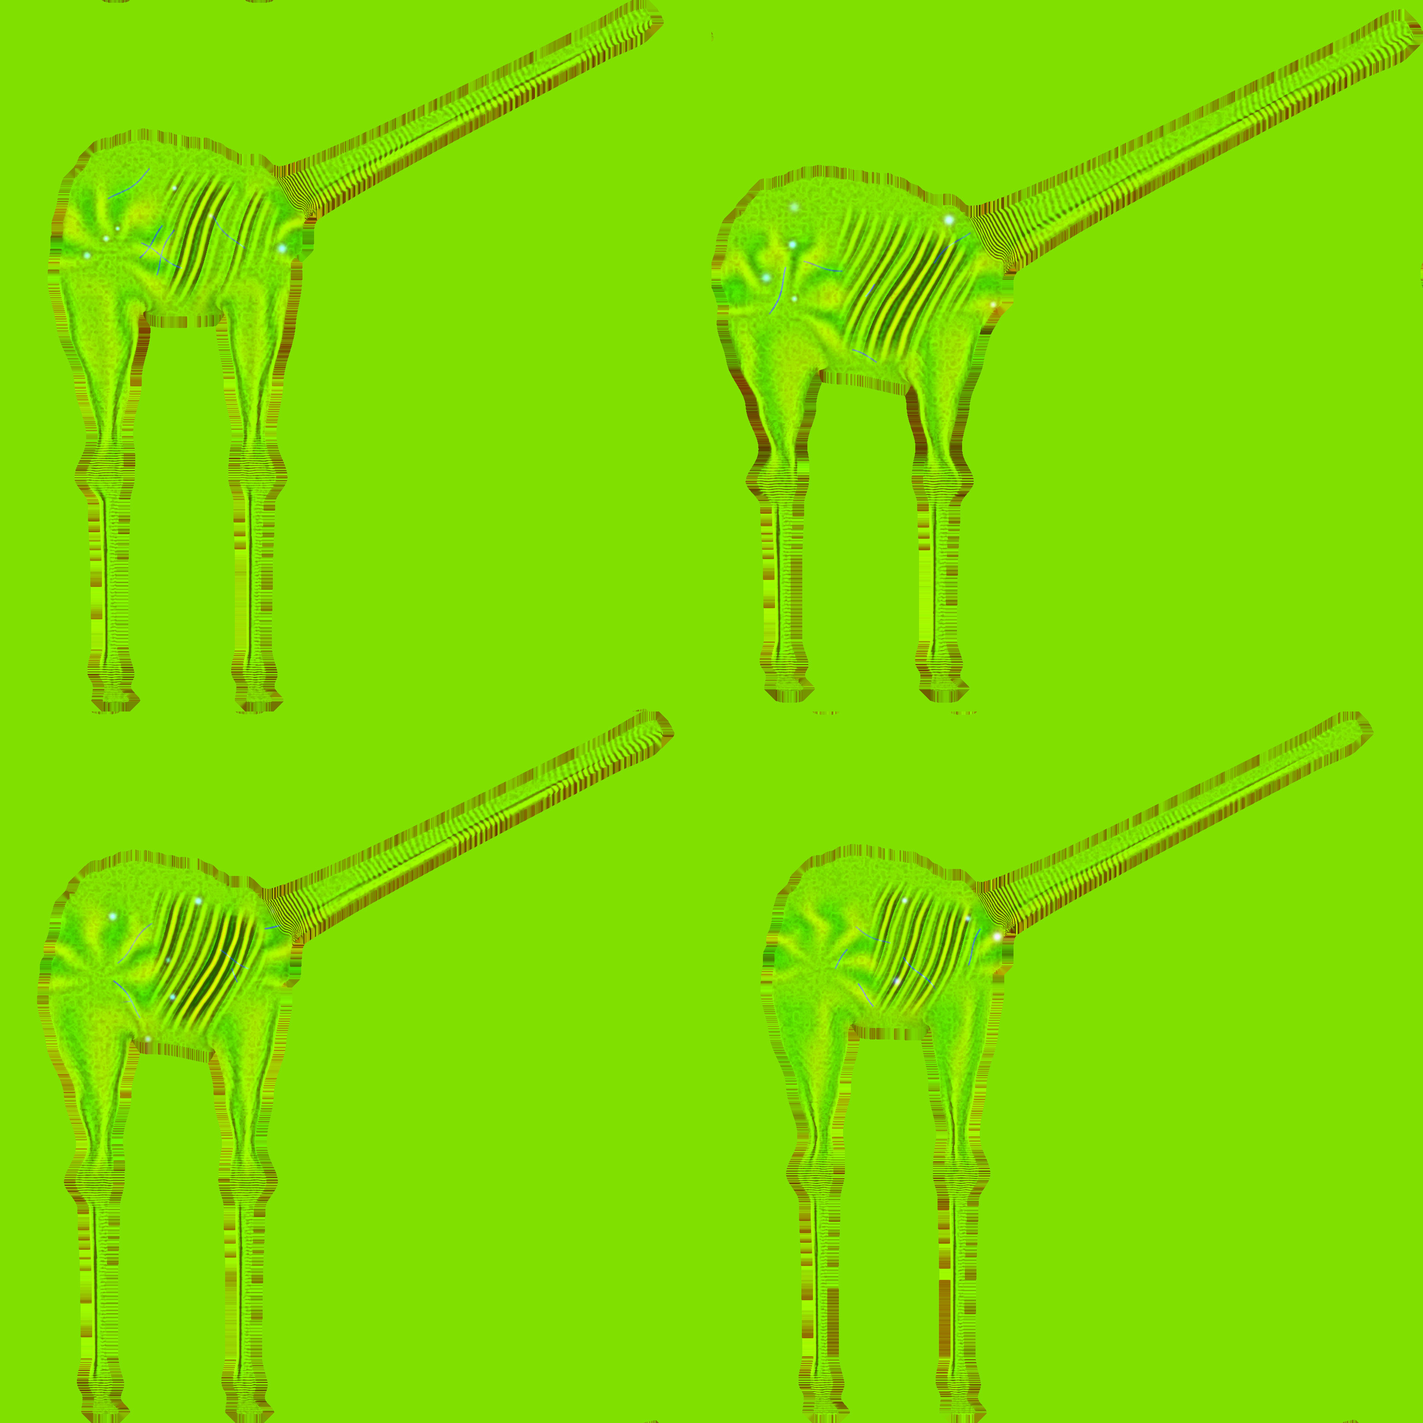
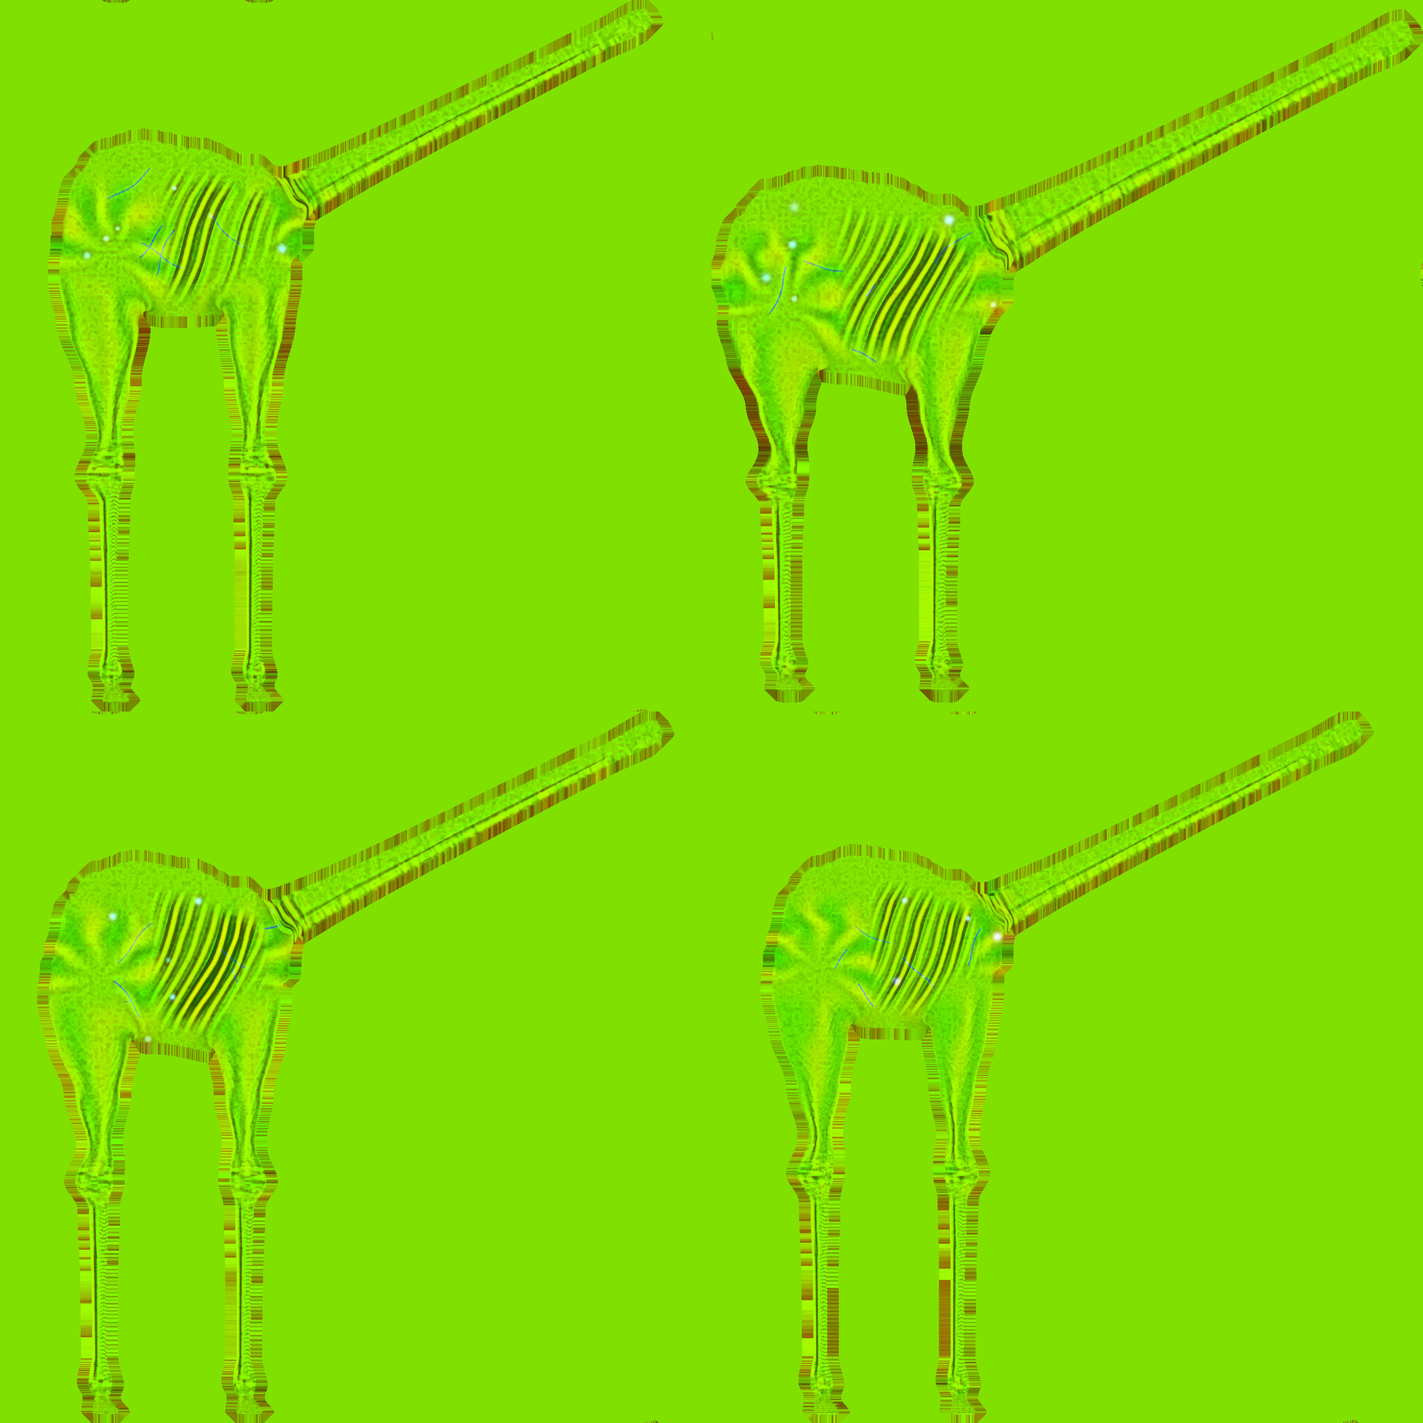
far herd scattered in depth with gaps, drips as beads of many sizes, creases instead of rings at the joints, the animal in the glare at its anchor

diff --git a/src/places/breath/waders/index.ts b/src/places/breath/waders/index.ts
@@ -1,7 +1,7 @@
 // The waders: the herd in the tide channel, the far flock on the shallows, and the one that stands over the drop at the rim.
 // Each animal is a skin of tubes posed on the processor from the time alone (animal.ts); who each one is and what it does is in herd.ts.
 import * as THREE from 'three';
-import { NEAR_WADERS, RIM_WADER, SEA_LEVEL, footing, keySeconds, shotSpan } from '../shared/anchors';
+import { MIST_WADER, NEAR_WADERS, RIM_WADER, SEA_LEVEL, footing, keySeconds, shotSpan } from '../shared/anchors';
 import { stagedSeconds } from '../shared/stage';
 import type { Context, Piece } from '../shared/context';
 import { Wader, shuffle, type Env } from './animal';
@@ -94,8 +94,9 @@ export function create(ctx: Context): Piece {
   const rim = herd[NEAR_WADERS.length] as Wader;
   const AWAY = { x: -58, z: -98 };
   // Staged: in the view of the plumes it stands on the rock behind the weed, where its neck and mop rise clear of the fronds beside the sun.
-  // Staged: in the view of the plumes it is a whole animal far off in the vapour, seen in the gap between the fronds, as the picture has it.
-  const MIST = { x: -38.5, z: -56.7, heading: -95 };
+  // Staged: in the view of the plumes it is a whole animal at mid distance in the glare, large and white, seen in the gap between the fronds,
+  // side on with its neck up, as the picture has it: a sixth of the frame high.
+  const MIST = { x: MIST_WADER.x, z: MIST_WADER.z, heading: MIST_WADER.heading };
   // Staged: in the view of the rim it stands clear of the growth, before it, where the picture of the rim has it.
   const RIM_NEAR = { x: -28.0, z: 17.4, heading: 38 };
   const rimUp = rim.plan.up;
@@ -170,20 +171,20 @@ export function create(ctx: Context): Piece {
             ripples.add(foot.x, foot.z, 1.5, 0.3 + 0.5 * foot.carried, foot.since, seed + j * 1.9, 26, 0.36, 0.034 * animal.b.k, inWater);
             // A foot that has just come down throws a crown of drops; each is where the time since it landed puts it.
             if (foot.since < 0.6) {
-              for (let d = 0; d < 18; d++) {
+              for (let d = 0; d < 10; d++) {
                 const turn = hash(seed + j * 3.1 + d * 1.7) * Math.PI * 2;
-                const outward = 0.25 + 0.9 * hash(seed + j * 5.3 + d * 2.9);
-                const upward = 0.9 + 1.7 * hash(seed + j * 7.7 + d * 0.61);
+                const outward = 0.1 + 0.4 * hash(seed + j * 5.3 + d * 2.9);
+                const upward = 0.5 + 1.0 * hash(seed + j * 7.7 + d * 0.61);
                 const y = SEA_LEVEL + upward * foot.since - 4.9 * foot.since * foot.since;
-                if (y > SEA_LEVEL) drips.add(foot.x + Math.cos(turn) * (0.03 + outward * foot.since), y, foot.z + Math.sin(turn) * (0.03 + outward * foot.since), 0.008 + 0.012 * Math.abs(upward - 9.8 * foot.since) * 0.5);
+                if (y > SEA_LEVEL) drips.add(foot.x + Math.cos(turn) * (0.03 + outward * foot.since), y, foot.z + Math.sin(turn) * (0.03 + outward * foot.since), 0.0083 * Math.abs(upward - 9.8 * foot.since), 0.0012 + 0.002 * hash(seed + d * 4.9 + j));
               }
             }
             // A foot carried through the air streams what it lifted.
             if (foot.lift > 0.04) {
               for (let d = 0; d < 6; d++) {
-                const fall = (((seconds * 1.3 + hash(seed + j * 2.3 + d * 4.1)) % 1) + 1) % 1 * 0.3;
+                const fall = (((seconds * (1.1 + 0.5 * hash(seed + d * 3.7)) + hash(seed + j * 2.3 + d * 4.1)) % 1) + 1) % 1 * 0.3;
                 const y = foot.y - 4.9 * fall * fall;
-                if (y > SEA_LEVEL) drips.add(foot.x + 0.02 * (hash(seed + d * 9.1) - 0.5), y, foot.z + 0.02 * (hash(seed + d * 6.7) - 0.5), 0.01 + 9.8 * fall * 0.01);
+                if (y > SEA_LEVEL) drips.add(foot.x + 0.03 * (hash(seed + d * 9.1) - 0.5), y, foot.z + 0.03 * (hash(seed + d * 6.7) - 0.5), 9.8 * fall * 0.0083, 0.0012 + 0.0026 * hash(seed + d * 1.9 + j * 0.7) * hash(seed + d * 5.7));
               }
             }
           });
@@ -203,7 +204,7 @@ export function create(ctx: Context): Piece {
               const upward = 0.7 + 1.5 * hash(seed + d * 3.1 + n * 7.9);
               const from = 0.04 + 0.1 * hash(seed + d * 6.1 + n * 2.9);
               const y = sea + upward * since - 4.9 * since * since;
-              if (y > sea) drips.add(stood.tuft.x + Math.cos(way) * (from + outward * since), y, stood.tuft.z + Math.sin(way) * (from + outward * since), 0.006 + 0.006 * Math.abs(upward - 9.8 * since));
+              if (y > sea) drips.add(stood.tuft.x + Math.cos(way) * (from + outward * since), y, stood.tuft.z + Math.sin(way) * (from + outward * since), 0.0083 * Math.abs(upward - 9.8 * since), 0.0012 + 0.0024 * hash(seed + d * 7.3 + n));
             }
           } else if (stood.sinceLift < 9 && footing(stood.tuft.x, stood.tuft.z) < sea) {
             // Lifted: it streams, then drips, for some seconds. Every drop is where the time since the lift puts it.
@@ -213,18 +214,21 @@ export function create(ctx: Context): Piece {
             for (let d = 0; d < count; d++) {
               // Ten of the tips run in streams, a bead after a bead down one line; the rest drip singly.
               const stream = d % 10;
-              const run = d < 80;
+              const run = d < 40;
               const tipAt = run ? stream : d;
               const period = run ? 0.4 + 0.1 * hash(seed + stream * 7.7) : 0.22 + 0.26 * hash(seed + d * 7.7);
-              const turn = (stood.sinceLift + (run ? (Math.floor(d / 10) / 8 + 0.03 * hash(seed + d * 1.3)) * period : 3 * hash(seed + d * 1.3))) / period;
+              const turn = (stood.sinceLift + (run ? (Math.floor(d / 10) / 4 + 0.12 * hash(seed + d * 1.3)) * period : 3 * hash(seed + d * 1.3))) / period;
               const tip = Math.floor(hash(seed + tipAt * 3.3) * (tips.length / 3)) * 3;
               const n = Math.floor(turn);
               if (hash(seed + d * 5.1 + n * 9.7) > 0.25 + 0.75 * pour) continue;
               const fall = (turn - n) * period;
-              const x = tips[tip] as number;
-              const z = tips[tip + 2] as number;
+              // No drop falls quite straight: it leaves a strand that swings, and goes a little the way the strand was going. Most are small, a few heavy.
+              const fling = 0.3 * (run ? 0.4 : 1);
+              const x = (tips[tip] as number) + fling * (hash(seed + d * 2.7 + n * 1.1) - 0.5) * fall;
+              const z = (tips[tip + 2] as number) + fling * (hash(seed + d * 6.9 + n * 2.3) - 0.5) * fall;
               const y = (tips[tip + 1] as number) - 4.9 * fall * fall;
-              if (y > sea) drips.add(x, y, z, 0.012 + 9.8 * fall * (run ? 0.021 : 0.012));
+              const heavy = hash(seed + d * 9.3 + n * 4.7);
+              if (y > sea) drips.add(x, y, z, 9.8 * fall * 0.0083, 0.0012 + 0.0016 * heavy + 0.0034 * heavy * heavy * heavy * heavy);
               else if (d % 4 === 0) ripples.add(x, z, 0.55, 0.5 * pour + 0.12, (sea - y) / 3, seed + d, 48, 0.24);
             }
             ripples.add(stood.tuft.x, stood.tuft.z, 0.9, 0.2 + 0.45 * pour, 5, seed, 40, 0.26);

diff --git a/src/places/breath/waders/drips.ts b/src/places/breath/waders/drips.ts
@@ -1,11 +1,14 @@
-// The drops that fall from a tuft lifted out of the water: many at first, then few. Each is a short bright streak, where the time alone puts it.
+// The drops that fall from a tuft lifted out of the water: many at first, then few. Each is a bead of its own size, drawn out by its fall
+// no further than the shutter draws it, where the time alone puts it.
 import * as THREE from 'three';
 import { RIG_GLSL } from '../shared/glsl';
 
 const VERTEX = /* glsl */ `
 attribute vec4 aDrop;
+attribute float aSize;
 uniform float uPixel;
 varying vec2 vAt;
+varying float vThin;
 varying vec3 vWorld;
 void main() {
   vec3 c = aDrop.xyz;
@@ -13,7 +16,8 @@ void main() {
   float far = length(toEye);
   vec3 across = normalize(cross(vec3(0.0, 1.0, 0.0), toEye));
   // A drop is a few millimetres: it is drawn no narrower than a pixel and dimmed by as much as it was widened.
-  float wide = max(0.0024, 0.75 * uPixel * far);
+  float wide = max(aSize, 0.75 * uPixel * far);
+  vThin = min(1.0, aSize / (0.75 * uPixel * far));
   vec3 p = c + across * position.x * wide + vec3(0.0, position.y * max(aDrop.w, wide), 0.0);
   vAt = vec2(position.x, position.y);
   vWorld = p;
@@ -23,6 +27,7 @@ void main() {
 const FRAGMENT = /* glsl */ `
 precision highp float;
 varying vec2 vAt;
+varying float vThin;
 varying vec3 vWorld;
 uniform float uPixel;
 ${RIG_GLSL}
@@ -30,21 +35,23 @@ void main() {
   vec3 toEye = cameraPosition - vWorld;
   float far = length(toEye);
   vec3 v = toEye / far;
-  float bead = max(0.0, 1.0 - dot(vAt, vAt));
-  float thin = min(1.0, 0.0024 / (0.75 * uPixel * far));
+  // The bead leads and what the shutter drew out behind it is fainter.
+  float bead = max(0.0, 1.0 - dot(vAt, vAt)) * mix(1.0, 0.4, smoothstep(-0.5, 0.9, vAt.y));
+  float thin = vThin;
   // Water against the light: it gathers the low sun and the bright fog behind it.
   float against = max(dot(-v, uSunDir), 0.0);
-  vec3 lit = uSunColour * (0.35 + 1.5 * pow(against, 6.0)) * sunAt(vWorld) + 0.3 * skyRadiance(vec3(-v.x, 0.3, -v.z));
-  float alpha = min(1.0, bead * 1.6) * thin * (1.0 - uSolo);
+  vec3 lit = uSunColour * (0.2 + 1.3 * pow(against, 6.0)) * sunAt(vWorld) + 0.3 * skyRadiance(vec3(-v.x, 0.3, -v.z));
+  float alpha = min(1.0, bead * 1.3) * thin * (1.0 - uSolo);
   // A drop is where it is for the lens too: without a depth of its own it is blurred as the cliff behind it.
-  if (alpha < 0.2) discard;
+  if (alpha < 0.14) discard;
   gl_FragColor = vec4(lit * alpha, alpha);
 }`;
 
 export interface Drips {
   mesh: THREE.Mesh;
   begin(): void;
-  add(x: number, y: number, z: number, length: number): void;
+  /** A drop at a place, drawn out `length` metres by its fall, `size` metres wide. */
+  add(x: number, y: number, z: number, length: number, size?: number): void;
   end(): void;
   dispose(): void;
 }
@@ -58,6 +65,10 @@ export function makeDrips(max: number, uniforms: Record<string, THREE.IUniform>)
   const aDrop = new THREE.InstancedBufferAttribute(drop, 4);
   aDrop.setUsage(THREE.DynamicDrawUsage);
   geometry.setAttribute('aDrop', aDrop);
+  const size = new Float32Array(max);
+  const aSize = new THREE.InstancedBufferAttribute(size, 1);
+  aSize.setUsage(THREE.DynamicDrawUsage);
+  geometry.setAttribute('aSize', aSize);
   const material = new THREE.ShaderMaterial({
     vertexShader: VERTEX,
     fragmentShader: FRAGMENT,
@@ -80,14 +91,16 @@ export function makeDrips(max: number, uniforms: Record<string, THREE.IUniform>)
     begin: () => {
       count = 0;
     },
-    add: (x, y, z, length) => {
+    add: (x, y, z, length, wide = 0.0024) => {
       if (count >= max) return;
-      drop.set([x, y, z, length], count * 4);
+      drop.set([x, y, z, Math.max(length, wide)], count * 4);
+      size[count] = wide;
       count++;
     },
     end: () => {
       geometry.instanceCount = count;
       aDrop.needsUpdate = true;
+      aSize.needsUpdate = true;
     },
     dispose: () => {
       geometry.dispose();

diff --git a/src/places/breath/waders/herd.ts b/src/places/breath/waders/herd.ts
@@ -57,7 +57,8 @@ export const WIDE_EYE = { x: -41.5, z: 42.3 };
 const ROW = FAR_FLOCK.count + 16;
 const CROSSING = 7;
 const ROW_BEARING: [number, number] = [-18.5, 7];
-const ROW_DISTANCE: [number, number] = [186, 250];
+/** How far from that eye each band of it stands, metres, from the left of the view to the right. */
+const ROW_BANDS = [172, 318, 226, 148, 286, 204, 338, 250, 182];
 const ROW_HEADING = 59;
 
 export interface Member {
@@ -165,11 +166,22 @@ export function makeHerd(rng: Rng): Member[] {
   // The far herd, as the wide picture has it: a long loose row on the shallows, small and pale, most of them bent down feeding; a thin
   // second rank behind it; and a few that cross the flats between the row and the channel at a walk. No two do the same thing at one time.
   const far = rng;
+  // Not one rank at one distance: bands of a few animals each, one nearer, the next far out, with open water between them.
+  const share = ROW_BANDS.map((d) => Math.pow(d / 250, 1.8));
+  const whole = share.reduce((sum, w) => sum + w, 0);
   const place = (i: number): [number, number] => {
-    const along = Math.min(1, Math.max(0, (i + 1.7 * (hash(i * 3.1 + 1) - 0.5)) / ROW));
-    const bearing = (ROW_BEARING[0] + (ROW_BEARING[1] - ROW_BEARING[0]) * along + 1.4 * (hash(i * 2.3 + 11) - 0.5)) * RAD;
-    const behind = hash(i * 5.3 + 15) < 0.22 ? 30 + 80 * hash(i * 6.1 + 12) : 0;
-    const d = ROW_DISTANCE[0] + (ROW_DISTANCE[1] - ROW_DISTANCE[0]) * along + 30 * (hash(i * 4.3 + 17) - 0.5) + behind;
+    const along = Math.min(0.999, Math.max(0, (i + 1.7 * (hash(i * 3.1 + 1) - 0.5)) / ROW)) * whole;
+    // The far bands are long and hold many; a near one is a few animals well apart.
+    let band = 0;
+    let before = 0;
+    while (band < ROW_BANDS.length - 1 && before + (share[band] as number) < along) before += share[band++] as number;
+    const within = (along - before) / (share[band] as number);
+    const from = ROW_BEARING[0] + ((ROW_BEARING[1] - ROW_BEARING[0]) * band) / ROW_BANDS.length;
+    const wide = (ROW_BEARING[1] - ROW_BEARING[0]) / ROW_BANDS.length;
+    const far = ROW_BANDS[band] as number;
+    const reach = far < 200 ? 1.5 : 0.8;
+    const bearing = (from + wide * (0.5 + reach * (within - 0.5)) + 0.5 * (hash(i * 2.3 + 11) - 0.5)) * RAD;
+    const d = far + 16 * (within - 0.5) * (hash(band * 7.7 + 3) < 0.5 ? -1 : 1) + (far < 200 ? 50 : 26) * (hash(i * 4.3 + 17) - 0.5);
     return [WIDE_EYE.x + Math.sin(bearing) * d, WIDE_EYE.z - Math.cos(bearing) * d];
   };
   for (let i = 0; i < ROW + CROSSING; i++) {

diff --git a/src/places/breath/waders/material.ts b/src/places/breath/waders/material.ts
@@ -215,8 +215,8 @@ void main() {
     vec3 shankC = mix(vec3(0.4, 0.3, 0.27), vec3(0.64, 0.52, 0.47), mottle) * (0.7 + 0.6 * scaled);
     albedo = mix(albedo, shankC, 0.6 * shank * (1.0 - 0.6 * min(joint, 1.0)) * (1.0 - 0.7 * smoothstep(55.0, 140.0, far)));
     // The skin over a joint is slack and creased across the leg.
-    float knuckle = vnoise(vec2(legT * 150.0, q.x * 12.0 + seed));
-    albedo = mix(albedo, vec3(0.52, 0.2, 0.17) * (0.5 + 0.95 * knuckle), 0.7 * min(joint, 1.0));
+    float knuckle = vnoise(vec2(legT * 60.0, q.x * 30.0 + seed));
+    albedo = mix(albedo, vec3(0.56, 0.25, 0.22) * (0.75 + 0.5 * knuckle), 0.6 * min(joint, 1.0));
     height += 0.003 * (knuckle - 0.5) * min(joint, 1.0) * mid;
     albedo = mix(albedo, vec3(0.07, 0.055, 0.05) * (0.7 + 0.6 * crack), horn);
     height += 0.0016 * (scaled - 0.5) * shank * fine;
@@ -386,7 +386,7 @@ void main() {
   vec3 flat_ = normalize(vec3(uSunDir.x, 0.0, uSunDir.z));
   // Far off across the bright shallows the light comes at them from the water and the vapour on every side: they are pale there, not cut-outs.
   float across = smoothstep(55.0, 140.0, far) * (1.0 - uVeiled.z);
-  float fogLight = 0.5 * max(0.05, mix(0.54, 0.4, smoothstep(22.0, 110.0, far)) + 0.34 * dot(n, flat_) + 0.08 * n.y) * (1.0 + 2.2 * across);
+  float fogLight = 0.5 * max(0.05, mix(0.54, 0.4, smoothstep(22.0, 110.0, far)) + 0.34 * dot(n, flat_) + 0.08 * n.y) * (1.0 + 3.0 * across);
   vec3 fogColour = skyIrradiance(normalize(flat_ + vec3(0.0, 0.4, 0.0))) * vec3(1.14, 1.0, 0.86) / 3.14159;
   colour += albedo * (uSunColour * (0.2 * wrap * wrap + 3.0 * (1.0 - 0.3 * tendril) * halo * halo * halo) + fogColour * (4.9 * (1.0 - 0.45 * tendril) * fogLight * (1.0 + 1.2 * (1.0 - lit)))) * (occ * (0.7 + 0.3 * lit) * (1.0 - 0.6 * uDead));
   // Thin bare skin against a low sun: the light comes a little way through at the edge of every limb, warm, and the edge reads bright.

diff --git a/assets-src/breath/waders-relief/relief.py b/assets-src/breath/waders-relief/relief.py
@@ -33,6 +33,10 @@ def smooth(a, b, x):
 def bell(x, w):
     return np.exp(-(x / w) ** 2)
 
+def bands(across, along, period, seed):
+    """Creases across a limb: no two a like distance apart, none all the way round. About -1 to 1."""
+    return 2 * (vnoise(across, along / period, seed) - 0.5) + (vnoise(across * 2.3 + 4.0, along / (period * 0.45), seed + 1) - 0.5)
+
 def marks(f, u, k, seed, which):
     """The old hurts of this one animal: scars as (distance to it, metres) and lumps as heights. Returns (groove, lump)."""
     groove = np.zeros_like(f)
@@ -81,7 +85,7 @@ def press(f, u, nf, nu, leg, neck, rib, cage, k, seed, which, broad=False, leg_l
         h = h + 0.0026 * k * folds * bell(d - 0.24 * k, 0.11 * k) * trunk * (1 - cage)
     # 7a. Slack skin in deep folds across the root of the neck.
     slack = bell(neck - 0.07, 0.07) * smooth(0.0, 0.02, neck)
-    h = h + 0.003 * k * slack * np.sin(neck * neck_len / (0.026 * k) * 2 * np.pi + 3.0 * vnoise(nu * 2.0, neck * 14.0, seed + 5))
+    h = h + 0.003 * k * slack * bands(nu * 1.4, neck * neck_len, 0.04 * k, seed + 5)
     groove, lump = marks(f, u, k, seed, which)
     h = h + lump * trunk
     if broad:
@@ -92,12 +96,12 @@ def press(f, u, nf, nu, leg, neck, rib, cage, k, seed, which, broad=False, leg_l
     # 4. The joints: knotted, the skin over them creased across the leg.
     for at, w in ((0.47, 0.05), (0.94, 0.03)):
         j = bell(leg - at, w)
-        rings = np.sin(leg * leg_len / (0.012 * k) * 2 * np.pi + 2.5 * vnoise(nf * 2.5, leg * 60.0, seed + at))
-        h = h + 0.0012 * k * j * rings + 0.0012 * k * j * (vnoise(nf * 4.0, leg * 40.0, seed + 3 + at) - 0.5)
+        # Creases across the joint, none of them all the way round and no two a like distance apart; between them the skin is lumped.
+        h = h + 0.0014 * k * j * bands(nf * 1.6, leg * leg_len, 0.021 * k, seed + at) + 0.002 * k * j * (vnoise(nf * 4.0, leg * 40.0, seed + 3 + at) - 0.5)
     # 5. The shank: a cord down the back of it with a furrow before the cord, and plates down the front, row on row.
     shank = smooth(0.5, 0.55, leg) * (1 - smooth(0.9, 0.94, leg))
     h = h + 0.002 * k * shank * (bell(nf + 0.82, 0.2) - 1.15 * bell(nf + 0.38, 0.15))
-    row = leg * leg_len / (0.017 * k) + 0.35 * vnoise(nf * 3.0, leg * 30.0, seed + 11)
+    row = leg * leg_len / (0.019 * k) + 1.4 * vnoise(nf * 2.0, leg * 14.0, seed + 11)
     plate = 1 - np.abs(2 * (row - np.floor(row)) - 1) ** 3
     h = h + 0.001 * k * shank * smooth(-0.1, 0.3, nf) * (plate - 0.7)
     # 6. The foot: horn in rings.
@@ -106,9 +110,7 @@ def press(f, u, nf, nu, leg, neck, rib, cage, k, seed, which, broad=False, leg_l
     # 7b. The neck: ringed all its length, more underneath, with two cords along the throat.
     onneck = smooth(0.03, 0.12, neck)
     # No two rings are one width, each gives out part of the way round, and in places there are none.
-    rings = np.sin(neck * neck_len / (0.03 * k) * 2 * np.pi + 7.0 * vnoise(nu * 1.6, neck * 11.0, seed + 13) + 5.0 * vnoise(neck * 5.0, 0.5, seed + 14))
-    some = smooth(0.3, 0.6, vnoise(neck * 9.0, nu * 1.3, seed + 15))
-    h = h + 0.0011 * k * onneck * rings * some * (0.3 + 0.7 * smooth(0.2, -0.6, nu))
+    h = h + 0.0011 * k * onneck * bands(nu * 1.5, neck * neck_len, 0.03 * k, seed + 13) * (0.3 + 0.7 * smooth(0.2, -0.6, nu))
     h = h + 0.0014 * k * onneck * (bell(nu + 0.55, 0.14) - 0.8 * bell(nu + 0.25, 0.1)) * (1 - smooth(0.7, 0.95, neck))
     # 8. The skin everywhere: a net of fine wrinkles, finer on the legs.
     cell = np.where(leg > 0.3, 0.016, 0.028) * k

diff --git a/assets-src/breath/waders-relief/RECIPE.md b/assets-src/breath/waders-relief/RECIPE.md
@@ -7,6 +7,6 @@ Each wader the lens comes close to wears a relief of its own: the three that fee
 Made by: `assets-src/breath/waders-relief/export-rest.cjs` (Node 20.20.2, TypeScript of the repository), `assets-src/breath/waders-relief/sculpt.py` and `assets-src/breath/waders-relief/compose.py` with `assets-src/breath/waders-relief/relief.py` (Python 3.11.17, Blender 5.0.1 as the module bpy, Cycles on the processor, numpy 1.26.4, Pillow 13.0.0)
 From: `src/places/breath/waders/animal.ts` and `src/places/breath/waders/body.ts` (the rest shape of each animal); no picture
 Prompt or command: from the repository root, in this order. `npx tsc --ignoreConfig --outDir out/work/js --module commonjs --target es2020 --skipLibCheck --noEmitOnError false src/places/breath/waders/animal.ts`, then a file `out/work/js/package.json` holding `{"type":"commonjs"}`, then `node assets-src/breath/waders-relief/export-rest.cjs out/work/bake`, then `/home/user/bpyenv/bin/python assets-src/breath/waders-relief/sculpt.py out/work/bake N` for N from 0 to 3, then `RELIEF_Q=88 /home/user/bpyenv/bin/python assets-src/breath/waders-relief/compose.py out/work/bake public/assets/breath/waders/relief.jpg`. The sculpt presses the surface in and out along itself (ribs each of its own height and the hollows between them, folds where a leg leaves the trunk, slack folds at the root of the neck, lumps), Cycles finds how hidden each point of the sculpted surface is from the open air (24 samples), and the view is written at 1536 by 1536 for each animal. The composing adds the fine part (knots and creases of the joints, cord and plates of the shank, rings of the foot and neck, a net of wrinkles, scars) and lays the four views two by two, 3072 by 3072: red the height (one half is none, the whole range 12 mm times the animal's size), green how open to the air, blue scars and lumps. Stored linear, JPEG at quality 88 with no chroma subsampling.
-Takes: 1 made, 1 kept (one try for each of the four animals; the rings of the neck were made uneven before the kept run)
+Takes: 3 runs of the same script, the last kept (the first run drew even rings at the neck, the second even rings at the knees and hocks; the kept run draws uneven creases there instead; the body, ribs and scars of each animal did not change between runs)
 Why this one: every rib, fold and scar is where this animal's own shape has it, so no two of the three seen close carry the same marks.
 Date: 2026-11-27
